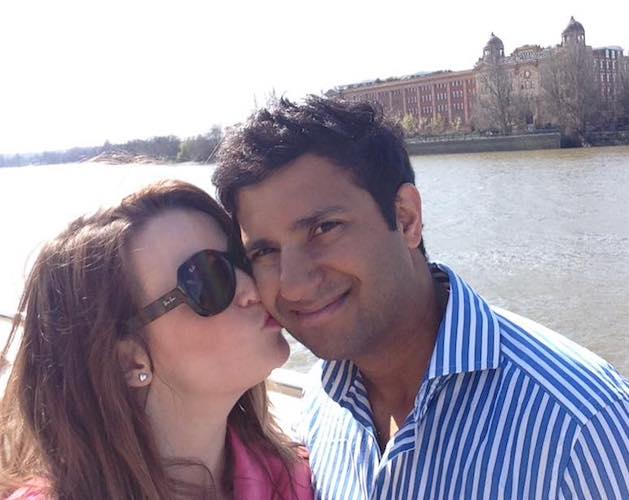
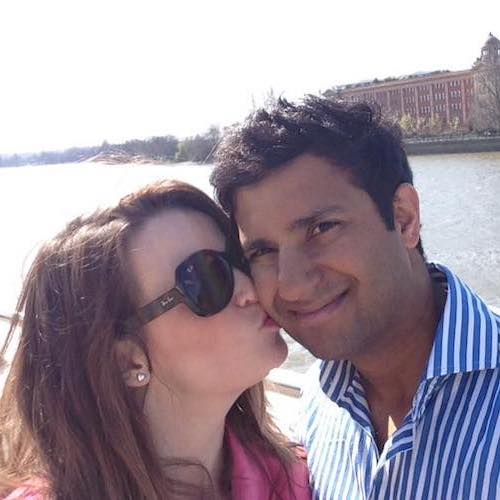
fixed carousel css

diff --git a/src/components/info/landing.js b/src/components/info/landing.js
@@ -18,38 +18,57 @@ class Landing extends React.Component {
       <div>
         <h2>Welcome to our Wedding!</h2>
 
-        <h3>Introduction - Lorem ipsum dolor sit amet, consectetur adipisicing elit, sed do eiusmod tempor incididunt ut labore et dolore magna aliqua. Ut enim ad minim veniam, quis nostrud exercitation ullamco laboris nisi ut aliquip ex ea commodo consequat. Duis aute irure dolor in reprehenderit in voluptate velit esse cillum dolore eu fugiat nulla pariatur. Excepteur sint occaecat cupidatat non proident, sunt in culpa qui officia deserunt mollit anim id est laborum.</h3>
+        <div className="container">
 
+          <h3>Introduction - Lorem ipsum dolor sit amet, consectetur adipisicing elit, sed do eiusmod tempor incididunt ut labore et dolore magna aliqua. Ut enim ad minim veniam, quis nostrud exercitation ullamco laboris nisi ut aliquip ex ea commodo consequat. Duis aute irure dolor in reprehenderit in voluptate velit esse cillum dolore eu fugiat nulla pariatur. Excepteur sint occaecat cupidatat non proident, sunt in culpa qui officia deserunt mollit anim id est laborum.</h3>
 
-        <Carousel>
-          <Carousel.Item>
-            <img height={750} alt="Harrods repository" src="../assets/images/jc1.jpg" />
-            <Carousel.Caption>
-              <h3>A weekend stroll along the Thames Path</h3>
-            </Carousel.Caption>
-          </Carousel.Item>
-          <Carousel.Item>
-            <img height={750} alt="CW ice-skating" src="../assets/images/jc6.jpg" />
-            <Carousel.Caption>
-              <h3>Early on in our relationship, ice-skating in Canary Wharf</h3>
-            </Carousel.Caption>
-          </Carousel.Item>
-          <Carousel.Item>
-            <img height={750} alt="Turkish palace" src="../assets/images/jc9.jpg" />
-            <Carousel.Caption>
-              <h3>On holiday in Istanbul</h3>
-            </Carousel.Caption>
-          </Carousel.Item>
-        </Carousel>
+          <div className="us">
+            <Carousel>
+              <Carousel.Item>
+                <div className="carousel">
+                  <img className="carousel-images" alt="Harrods repository" src="../assets/images/jc1.jpg" />
+                  <Carousel.Caption>
+                    <h3>A weekend stroll along the Thames Path</h3>
+                  </Carousel.Caption>
+                </div>
+              </Carousel.Item>
 
-        <h4>How we met</h4>
-        <p>On Charlottes first weekend in London, we met in Italian Restaurant/Nightclub Mare Motos on the Kings Road in Chelsea.  There was lots of dancing and then a first date at Brew Café in Putney, followed by a second date at Winter Wonderland Hyde Park where Jav booked the worst circus ever and Charlotte failed at hoopla!  We have now been together for 3 years and are so excited to be extending that to forever 💖</p>
+              <Carousel.Item>
+                <div className="carousel">
+                  <img className="carousel-images" alt="Skiing" src="../assets/images/jc3.jpg" />
+                  <Carousel.Caption>
+                    <h3>Ski dead</h3>
+                  </Carousel.Caption>
+                </div>
+              </Carousel.Item>
 
-        <h4>The Romantic Proposal</h4>
-        <p>Lorem ipsum dolor sit amet, consectetur adipisicing elit, sed do eiusmod tempor incididunt ut labore et dolore magna aliqua. Ut enim ad minim veniam, quis nostrud exercitation ullamco laboris nisi ut aliquip ex ea commodo consequat. Duis aute irure dolor in reprehenderit in voluptate velit esse cillum dolore eu fugiat nulla pariatur. Excepteur sint occaecat cupidatat non proident, sunt in culpa qui officia deserunt mollit anim id est laborum.</p>
+              <Carousel.Item>
+                <div className="carousel">
+                  <img className="carousel-images" alt="Anniversary in Singapore" src="../assets/images/jc5.jpg" />
+                  <Carousel.Caption>
+                    <h3>Our first anniversary in Singapore</h3>
+                  </Carousel.Caption>
+                </div>
+              </Carousel.Item>
+            </Carousel>
 
-        <div>
-          <p>We are so excited to celebrate with you all! <a href="/weddings">Click here</a> for more information about our Wedding.</p>
+            <div className="met">
+              <div className="mare-motos">
+                <h4>How we met</h4>
+                <p>On Charlottes first weekend in London, we met in Italian Restaurant/Nightclub Mare Motos on the Kings Road in Chelsea.  There was lots of dancing and then a first date at Brew Café in Putney, followed by a second date at Winter Wonderland Hyde Park where Jav booked the worst circus ever and Charlotte failed at hoopla!  We have now been together for 3 years and are so excited to be extending that to forever 💖</p>
+              </div>
+
+              <div className="proposal">
+                <h4>The Romantic Proposal</h4>
+                <p>Lorem ipsum dolor sit amet, consectetur adipisicing elit, sed do eiusmod tempor incididunt ut labore et dolore magna aliqua. Ut enim ad minim veniam, quis nostrud exercitation ullamco laboris nisi ut aliquip ex ea commodo consequat. Duis aute irure dolor in reprehenderit in voluptate velit esse cillum dolore eu fugiat nulla pariatur. Excepteur sint occaecat cupidatat non proident, sunt in culpa qui officia deserunt mollit anim id est laborum.</p>
+              </div>
+            </div>
+          </div>
+
+          <div>
+            <p>We are so excited to celebrate with you all! <a href="/weddings">Click here</a> for more information about our Wedding.</p>
+          </div>
+
         </div>
       </div>
     );

diff --git a/src/scss/landing.scss b/src/scss/landing.scss
@@ -1,0 +1,37 @@
+.us {
+  display: inline-flex;
+
+  .carousel {
+    margin: 20px;
+
+    .slide {
+      width: 500px;
+      max-height: auto;
+      margin: 0 200px;
+
+
+      .carousel-inner {
+        display: flex;
+        flex-wrap: wrap;
+        justify-content: center;
+        border-radius: 50%;
+        width: 745px important;
+
+
+        .carousel-images {
+          align-items: left;
+        }
+      }
+      .carousel-control {
+        display: none;
+        // background-color: blue;
+        //   border-radius: 50%;
+      }
+    }
+  }
+
+  .met {
+    max-width: 50%;
+  }
+
+}

diff --git a/src/scss/style.scss b/src/scss/style.scss
@@ -1,3 +1,4 @@
 @import "variables";
 @import "navbar";
 @import "forms";
+@import "landing";
